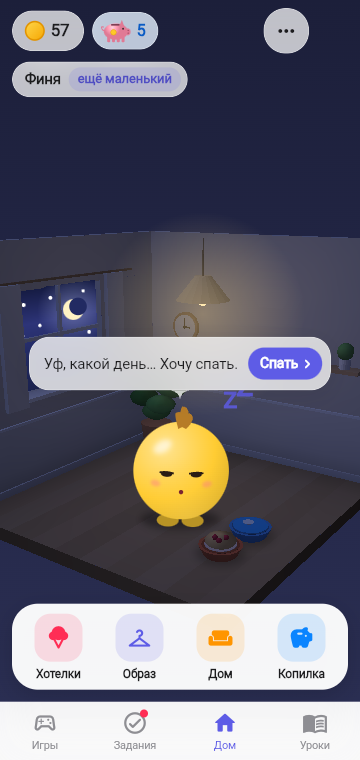
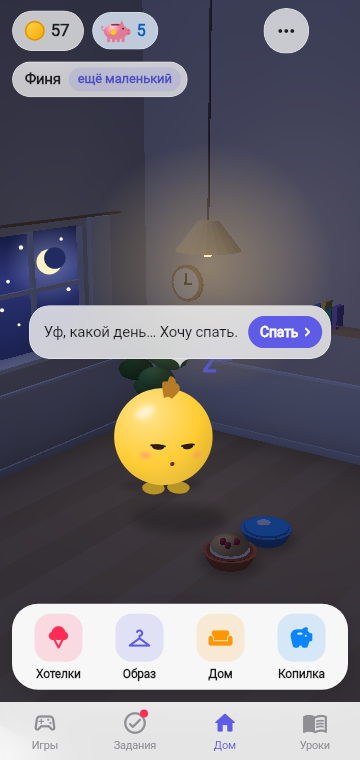
F-048/F-049: full-screen 3D room on Home, GitHub Actions release APK
- F-048: RoomBuilder fullBleed mode - floor and walls run past the
  frame (far 3.8 m, walls 6 m), no diorama cuts, closer camera; Home
  uses it, the Дом catalog stays a diorama
- F-049: .github/workflows/android-apk.yml - analyze, test, release APK
  artifact on push/PR, GitHub Release on v* tags; optional release
  signing from repo secrets via android/key.properties (debug key
  otherwise)
- SA F-048, F-049; room3d test; home screenshots refreshed

diff --git a/client/lib/ui/room3d/room_builder.dart b/client/lib/ui/room3d/room_builder.dart
@@ -21,6 +21,10 @@ abstract final class RoomBuilder {
   /// Где стоит Финик.
   static const heroSpot = Vec3(0.35, 0, 0.5);
 
+  /// Комната во весь экран (F-048): стены и пол уходят за края кадра.
+  /// [far] — докуда тянутся пол, задняя и левая стены к камере и вправо; [top] — высота стен.
+  static const far = 3.8, top = 6.0;
+
   static const _lampPos = Vec3(-1.2, 0, 0.95);
   static const _pendantPos = Vec3(0.2, 2.75, -0.2);
 
@@ -30,13 +34,14 @@ abstract final class RoomBuilder {
     bool night = false,
     Bowls bowls = const Bowls(),
     DayTime time = DayTime.day,
+    bool fullBleed = false,
   }) {
     if (night) time = DayTime.night;
     night = time == DayTime.night;
     final lampsOn = night || time == DayTime.evening; // вечером лампы уже горят
     final play = room == 2;
     final meshes = <Mesh>[];
-    _shell(meshes, play: play, time: time);
+    _shell(meshes, play: play, time: time, fullBleed: fullBleed);
     if (play) {
       _playroom(meshes);
     } else {
@@ -66,7 +71,7 @@ abstract final class RoomBuilder {
       }
     }
     _bowls(meshes, bowls);
-    _pendant(meshes, night: lampsOn);
+    _pendant(meshes, night: lampsOn, ceiling: fullBleed ? top : h);
     return meshes;
   }
 
@@ -141,7 +146,9 @@ abstract final class RoomBuilder {
 
   // ---------- Коробка комнаты ----------
 
-  static void _shell(List<Mesh> m, {required bool play, required DayTime time}) {
+  static void _shell(List<Mesh> m, {required bool play, required DayTime time, bool fullBleed = false}) {
+    // Во весь экран: пол и стены длиннее и выше, срезов диорамы нет (F-048).
+    final x1 = fullBleed ? far : 2.0, z1 = fullBleed ? far : 2.0, wh = fullBleed ? top : h;
     final wallC = play ? const Color(0xFFCFE3D7) : const Color(0xFFE9DED2);
     final panelC = play ? const Color(0xFFE6F0EA) : const Color(0xFFF3ECE3);
     final capC = const Color(0xFFFBF8F3);
@@ -149,36 +156,46 @@ abstract final class RoomBuilder {
     const panelTop = 0.95;
 
     // Пол из досок (полосы вдоль z) + основание-срез диорамы.
-    const n = 10;
+    const plank = 0.4;
     const tones = [0.0, 0.05, -0.04, 0.02, -0.06, 0.04, -0.02, 0.06, -0.03, 0.01];
+    final n = ((x1 + 2) / plank).round();
+    final nz = ((z1 + 2) / 0.5).round();
     for (var i = 0; i < n; i++) {
-      final x0 = -2 + 4 * i / n;
-      final t = tones[i];
+      final x0 = -2 + plank * i;
+      final t = tones[i % tones.length];
       final c = t >= 0 ? Color.lerp(woodA, const Color(0xFFFFFFFF), t)! : Color.lerp(woodA, const Color(0xFF000000), -t)!;
-      m.add(Mesh.grid(Vec3(x0, 0, -2), const Vec3(0, 0, 4), const Vec3(4 / n, 0, 0), c, nu: 8, nv: 1));
+      m.add(Mesh.grid(Vec3(x0, 0, -2), Vec3(0, 0, z1 + 2), const Vec3(plank, 0, 0), c, nu: nz, nv: 1));
     }
-    const slabC = Color(0xFF9C7A57);
-    m.add(Mesh.grid(const Vec3(-2 - wall, -slab, 2), const Vec3(4 + wall, 0, 0), const Vec3(0, slab, 0), slabC, nu: 1, nv: 1));
-    m.add(Mesh.grid(const Vec3(2, -slab, 2), const Vec3(0, 0, -4 - wall), const Vec3(0, slab, 0), Color.lerp(slabC, const Color(0xFF000000), 0.15)!, nu: 1, nv: 1));
+    if (!fullBleed) {
+      const slabC = Color(0xFF9C7A57);
+      m.add(Mesh.grid(const Vec3(-2 - wall, -slab, 2), const Vec3(4 + wall, 0, 0), const Vec3(0, slab, 0), slabC, nu: 1, nv: 1));
+      m.add(Mesh.grid(const Vec3(2, -slab, 2), const Vec3(0, 0, -4 - wall), const Vec3(0, slab, 0), Color.lerp(slabC, const Color(0xFF000000), 0.15)!, nu: 1, nv: 1));
+    }
 
     // Задняя стена: панели снизу, стена сверху, срезы сверху и справа.
-    m.add(Mesh.grid(const Vec3(-2, 0, -2), const Vec3(4, 0, 0), const Vec3(0, panelTop, 0), panelC, nu: 10, nv: 3));
-    m.add(Mesh.grid(const Vec3(-2, panelTop, -2), const Vec3(4, 0, 0), const Vec3(0, h - panelTop, 0), wallC, nu: 10, nv: 6));
-    m.add(Mesh.grid(const Vec3(-2 - wall, h, -2 - wall), const Vec3(0, 0, wall), const Vec3(4 + wall, 0, 0), capC, nu: 1, nv: 1));
-    m.add(Mesh.grid(const Vec3(2, -slab, -2), const Vec3(0, 0, -wall), const Vec3(0, h + slab, 0), capC, nu: 1, nv: 1));
+    final nx = ((x1 + 2) / 0.4).round();
+    m.add(Mesh.grid(const Vec3(-2, 0, -2), Vec3(x1 + 2, 0, 0), const Vec3(0, panelTop, 0), panelC, nu: nx, nv: 3));
+    m.add(Mesh.grid(const Vec3(-2, panelTop, -2), Vec3(x1 + 2, 0, 0), Vec3(0, wh - panelTop, 0), wallC, nu: nx, nv: fullBleed ? 10 : 6));
+    if (!fullBleed) {
+      m.add(Mesh.grid(const Vec3(-2 - wall, h, -2 - wall), const Vec3(0, 0, wall), const Vec3(4 + wall, 0, 0), capC, nu: 1, nv: 1));
+      m.add(Mesh.grid(const Vec3(2, -slab, -2), const Vec3(0, 0, -wall), const Vec3(0, h + slab, 0), capC, nu: 1, nv: 1));
+    }
 
     // Левая стена с проёмом окна: z ∈ [−0.6, 0.8], y ∈ [1.0, 2.1].
     // Окно высокое: небо видно над облачком реплики героя (F-028).
     const wz0 = -0.75, wz1 = 0.85, wy0 = 1.35, wy1 = 2.75;
     void left(double z0, double z1, double y0, double y1, Color c, {int nu = 6, int nv = 3}) =>
         m.add(Mesh.grid(Vec3(-2, y0, z1), Vec3(0, 0, -(z1 - z0)), Vec3(0, y1 - y0, 0), c, nu: nu, nv: nv));
-    left(-2, 2, 0, panelTop, panelC, nu: 10);
-    left(-2, 2, panelTop, wy0, wallC, nu: 10, nv: 1);
-    left(-2, 2, wy1, h, wallC, nu: 10, nv: 3);
+    final nzw = ((z1 + 2) / 0.4).round();
+    left(-2, z1, 0, panelTop, panelC, nu: nzw);
+    left(-2, z1, panelTop, wy0, wallC, nu: nzw, nv: 1);
+    left(-2, z1, wy1, wh, wallC, nu: nzw, nv: fullBleed ? 8 : 3);
     left(-2, wz0, wy0, wy1, wallC, nu: 4, nv: 3);
-    left(wz1, 2, wy0, wy1, wallC, nu: 4, nv: 3);
-    m.add(Mesh.grid(const Vec3(-2 - wall, h, 2), const Vec3(wall, 0, 0), const Vec3(0, 0, -4 - wall), capC, nu: 1, nv: 1));
-    m.add(Mesh.grid(const Vec3(-2 - wall, -slab, 2), const Vec3(wall, 0, 0), const Vec3(0, h + slab, 0), capC, nu: 1, nv: 1));
+    left(wz1, z1, wy0, wy1, wallC, nu: fullBleed ? 8 : 4, nv: 3);
+    if (!fullBleed) {
+      m.add(Mesh.grid(const Vec3(-2 - wall, h, 2), const Vec3(wall, 0, 0), const Vec3(0, 0, -4 - wall), capC, nu: 1, nv: 1));
+      m.add(Mesh.grid(const Vec3(-2 - wall, -slab, 2), const Vec3(wall, 0, 0), const Vec3(0, h + slab, 0), capC, nu: 1, nv: 1));
+    }
     // Откосы проёма.
     const reveal = Color(0xFFF6F1EA);
     m.add(Mesh.grid(const Vec3(-2 - wall, wy0, wz1), const Vec3(wall, 0, 0), const Vec3(0, 0, -(wz1 - wz0)), reveal, nu: 1, nv: 1));
@@ -206,13 +223,14 @@ abstract final class RoomBuilder {
     const skirt = Color(0xFFFFFDFA);
     // Плинтус и молдинг — короткими кусками: у длинной планки центр ближе к камере,
     // и она «прорезала» предметы в углу (монстеру). Куски сортируются каждый на своём месте.
-    const pieces = 8;
+    final pieces = fullBleed ? 12 : 8;
+    final len = (x1 + 2) / pieces, lenZ = (z1 + 2) / pieces;
     for (var i = 0; i < pieces; i++) {
-      final c = -2 + 4 * (i + 0.5) / pieces;
-      m.add(Mesh.box(const Vec3(4 / pieces, 0.1, 0.03), skirt, castShadow: false).translated(Vec3(c, 0, -1.985)));
-      m.add(Mesh.box(const Vec3(0.03, 0.1, 4 / pieces), skirt, castShadow: false).translated(Vec3(-1.985, 0, c)));
-      m.add(Mesh.box(const Vec3(4 / pieces, 0.035, 0.035), skirt, castShadow: false).translated(Vec3(c, panelTop, -1.98)));
-      m.add(Mesh.box(const Vec3(0.035, 0.035, 4 / pieces), skirt, castShadow: false).translated(Vec3(-1.98, panelTop, c)));
+      final c = -2 + len * (i + 0.5), cz = -2 + lenZ * (i + 0.5);
+      m.add(Mesh.box(Vec3(len, 0.1, 0.03), skirt, castShadow: false).translated(Vec3(c, 0, -1.985)));
+      m.add(Mesh.box(Vec3(0.03, 0.1, lenZ), skirt, castShadow: false).translated(Vec3(-1.985, 0, cz)));
+      m.add(Mesh.box(Vec3(len, 0.035, 0.035), skirt, castShadow: false).translated(Vec3(c, panelTop, -1.98)));
+      m.add(Mesh.box(Vec3(0.035, 0.035, lenZ), skirt, castShadow: false).translated(Vec3(-1.98, panelTop, cz)));
     }
 
     // Шторы.
@@ -264,9 +282,9 @@ abstract final class RoomBuilder {
     m.add(Mesh.sphere(0.12 * s * 2, const Color(0xFF6BA35A), lat: 6, lon: 10, castShadow: false).translated(at + Vec3(0, 0.12 * s * 2, 0)));
   }
 
-  static void _pendant(List<Mesh> m, {required bool night}) {
+  static void _pendant(List<Mesh> m, {required bool night, double ceiling = h}) {
     final p = _pendantPos;
-    m.add(Mesh.box(Vec3(0.015, h - p.y - 0.2, 0.015), const Color(0xFF6B5A4A), castShadow: false).translated(p + const Vec3(0, 0.25, 0)));
+    m.add(Mesh.box(Vec3(0.015, ceiling - p.y - 0.2, 0.015), const Color(0xFF6B5A4A), castShadow: false).translated(p + const Vec3(0, 0.25, 0)));
     m.add(Mesh.cylinder(0.34, 0.3, const Color(0xFFE9C58E), topR: 0.1, castShadow: false).translated(p - const Vec3(0, 0.05, 0)));
     m.add(Mesh.sphere(0.07, night ? const Color(0xFFFFF2C6) : const Color(0xFFFFF6E0), lat: 6, lon: 8, castShadow: false, emissive: true).translated(p - const Vec3(0, 0.12, 0)));
   }

diff --git a/client/lib/ui/room/room_scene.dart b/client/lib/ui/room/room_scene.dart
@@ -27,7 +27,11 @@ class RoomScene extends StatefulWidget {
     this.time = DayTime.day,
     this.initialAzimuth,
     this.orbit = const [],
+    this.fullBleed = false,
   });
+
+  /// Комната во весь экран: стены и пол уходят за края кадра (F-048).
+  final bool fullBleed;
 
   final Inventory inventory;
 
@@ -104,10 +108,10 @@ class _RoomSceneState extends State<RoomScene> with SingleTickerProviderStateMix
 
   void _ensureScene() {
     final inv = widget.inventory;
-    final key = '${inv.owned.toList()..sort()}|${inv.furniture}|${widget.room}|${widget._time}|${widget.bowls.key}';
+    final key = '${inv.owned.toList()..sort()}|${inv.furniture}|${widget.room}|${widget._time}|${widget.bowls.key}|${widget.fullBleed}';
     if (key == _key) return;
     _key = key;
-    _meshes = RoomBuilder.build(inventory: inv, room: widget.room, time: widget._time, bowls: widget.bowls);
+    _meshes = RoomBuilder.build(inventory: inv, room: widget.room, time: widget._time, bowls: widget.bowls, fullBleed: widget.fullBleed);
     _lighting = RoomBuilder.lighting(inventory: inv, room: widget.room, time: widget._time);
   }
 
@@ -203,7 +207,8 @@ class _RoomSceneState extends State<RoomScene> with SingleTickerProviderStateMix
       minX = min(minX, p.dx);
       maxX = max(maxX, p.dx);
     }
-    final zoom = size.width * 1.32 / max(1, maxX - minX);
+    // Во весь экран комната крупнее: меньше пустой стены над героем (F-048).
+    final zoom = size.width * (widget.fullBleed ? 1.62 : 1.32) / max(1, maxX - minX);
     final hero = cam.project(cam.toView(RoomBuilder.heroSpot), size, zoom: zoom)!;
     final target = Offset(size.width / 2, size.height * widget.feetY);
     return (zoom, target - hero);

diff --git a/client/test/ui/room3d_test.dart b/client/test/ui/room3d_test.dart
@@ -92,6 +92,17 @@ void main() {
       }
     });
 
+    test('full-bleed room extends floor and walls beyond the frame (F-048)', () {
+      final diorama = RoomBuilder.build(inventory: Inventory.empty);
+      final full = RoomBuilder.build(inventory: Inventory.empty, fullBleed: true);
+      expect(full.length, greaterThan(diorama.length));
+      double maxOf(List<Mesh> ms, double Function(Vec3) f) => ms.expand((m) => m.vertices).map(f).reduce((a, b) => a > b ? a : b);
+      expect(maxOf(full, (v) => v.y), greaterThanOrEqualTo(RoomBuilder.top - 0.01));
+      expect(maxOf(full, (v) => v.x), greaterThanOrEqualTo(RoomBuilder.far - 0.01));
+      expect(maxOf(full, (v) => v.z), greaterThanOrEqualTo(RoomBuilder.far - 0.01));
+      expect(maxOf(diorama, (v) => v.y), lessThan(RoomBuilder.top));
+    });
+
     test('full bowls add food and water to the room (F-027)', () {
       int bowls(Bowls b, {int room = 1}) => RoomBuilder.build(inventory: Inventory.empty, room: room, bowls: b).length;
       final empty = bowls(const Bowls(food: false, water: false));

diff --git a/client/lib/ui/tabs/home_tab.dart b/client/lib/ui/tabs/home_tab.dart
@@ -90,6 +90,7 @@ class _HomeTabState extends State<HomeTab> {
                 room: room,
                 feetY: feetY,
                 heroScale: 0.78,
+                fullBleed: true, // комната во весь экран (F-048)
                 hero: MascotView(
                   look: MascotLook.fromGame(game).withEmotion(
                     game.greeting ? PetEmotion.excited : (_moodLine == null ? wish.emotion : null),

diff --git a/docs/work/ui/F-048_FULL_SCREEN_ROOM_SA_SPEC.md b/docs/work/ui/F-048_FULL_SCREEN_ROOM_SA_SPEC.md
@@ -1,0 +1,44 @@
+# Комната во весь экран — системная спецификация (SA)
+
+| Поле | Значение |
+|------|----------|
+| **ID** | F-048 |
+| **Назначение** | На Доме 3D-комната занимает весь экран: стены и пол уходят за края кадра, пустоты вокруг «диорамы» нет |
+| **Репозиторий** | `Pet_Finni_hackathon` |
+| **Источник** | Запрос Егора 2026-09-24 после теста на эмуляторе: «комната полностью на весь экран, а не кусок маленький; много пустого пространства; но чтобы комната оставалась 3D» |
+| **Статус** | Реализовано 2026-09-24 |
+| **Связанные артефакты** | F-019 (3D-комната), F-028 (время суток), F-042 (док) |
+
+---
+
+## 1. Решение
+
+Было: комната-диорама 4 × 4 м со срезами стен и пола, вписанная по ширине; сверху и снизу — пустой фон. Стало (режим `fullBleed`):
+
+- пол, задняя и левая стены продлены к камере и вправо до `far = 3,8 м`, стены подняты до `top = 6 м` — их края всегда за кадром;
+- срезы диорамы (торцы стен и основание пола) не рисуются;
+- провод люстры тянется до верха стены;
+- камера ближе: масштаб `1,62` ширины вместо `1,32` — герой и вещи крупнее, пустой стены меньше;
+- комната по-прежнему 3D: крутится пальцем, свет и тени по времени суток.
+
+Экран «Дом» (покупка вещей) остаётся диорамой — там важно видеть комнату целиком.
+
+## 3. Бизнес-требования
+
+| ID | Требование | Приоритет |
+|----|------------|-----------|
+| BR-01 | На Доме нет пустого фона вокруг комнаты на телефоне 360 × 760 dp | Must |
+| BR-02 | Комната остаётся 3D и поворачивается пальцем | Must |
+| BR-03 | Вещи, миски, окно, часы, фото из зоопарка видны; облачко реплики не закрывает окно и фото | Must |
+| BR-04 | Режим включается параметром `RoomScene(fullBleed: true)`, по умолчанию — диорама | Must |
+
+## 8. API
+
+```dart
+RoomBuilder.build(..., bool fullBleed = false)   // far = 3.8, top = 6.0
+RoomScene(..., bool fullBleed = false)            // Home: true
+```
+
+## 9. Тестирование
+
+`room3d_test`: `fullBleed` строит больше мешей пола и стен, без срезов; прежние тесты диорамы не меняются. Скриншоты Дома днём и ночью — `docs/business/img/home_*.png`.

diff --git a/docs/work/ops/F-049_CI_RELEASE_APK_SA_SPEC.md b/docs/work/ops/F-049_CI_RELEASE_APK_SA_SPEC.md
@@ -1,0 +1,35 @@
+# CI/CD: сборка релизного APK в GitHub Actions — системная спецификация (SA)
+
+| Поле | Значение |
+|------|----------|
+| **ID** | F-049 |
+| **Назначение** | Каждый пуш в `main` / `Egor_DevStand` и каждый PR проверяется (analyze + test) и собирает release APK; тег `v*` публикует APK в GitHub Releases |
+| **Репозиторий** | `Pet_Finni_hackathon` |
+| **Источник** | Запрос Егора 2026-09-24: «настроить CI/CD в GitHub, чтобы сборка релизной APK была там» |
+| **Статус** | Реализовано 2026-09-24 |
+
+---
+
+## 1. Workflow `.github/workflows/android-apk.yml`
+
+| Шаг | Что делает |
+|-----|------------|
+| Триггеры | `push` в `main`, `Egor_DevStand`; `pull_request` в `main`; теги `v*`; ручной запуск (`workflow_dispatch`) |
+| Окружение | `ubuntu-latest`, Java 17 (Temurin), Flutter 3.47.5 stable с кешем |
+| Проверки | `flutter pub get` → `flutter analyze` → `flutter test` |
+| Сборка | `flutter build apk --release --build-number=<номер запуска>` |
+| Артефакт | `finni-<версия>-<sha>.apk` в артефактах запуска (хранится 30 дней) |
+| Релиз | На тег `v*` — GitHub Release с APK |
+
+## 2. Подпись
+
+По умолчанию — debug-ключ (как локально): APK ставится вручную для демо. Если в секретах репозитория есть `ANDROID_KEYSTORE_BASE64`, `ANDROID_KEYSTORE_PASSWORD`, `ANDROID_KEY_ALIAS`, `ANDROID_KEY_PASSWORD`, workflow создаёт `android/key.properties`, и Gradle подписывает релизным ключом. Ключ и пароли создаёт и добавляет в секреты владелец репозитория; в код они не попадают (`key.properties`, `*.jks` — в `.gitignore`).
+
+## 3. Как пользоваться
+
+- Скачать APK: GitHub → Actions → запуск → Artifacts → `finni-apk`.
+- Выпустить релиз: `git tag v1.0.0 && git push origin v1.0.0` → GitHub → Releases.
+
+## 9. Проверка
+
+Первый запуск после пуша — зелёный: analyze без замечаний, 161+ тест, APK в артефактах.

diff --git a/docs/work/README.md b/docs/work/README.md
@@ -64,6 +64,8 @@
 | F-045 | Вёрстка «Одежды» | [ui/F-045](ui/F-045_CLOTHES_LAYOUT_SA_SPEC.md) | `ui/screens/clothes_screen.dart` | `app_flow_test` |
 | F-046 | Перетаскивание в уроках | [ui/F-046](ui/F-046_DRAG_SORT_SA_SPEC.md) | `ui/lesson/lesson_steps.dart` | `lesson_test` |
 | F-047 | Фото из зоопарка на виду | [ui/F-047](ui/F-047_ZOO_PHOTO_PLACE_SA_SPEC.md) | `ui/room3d/room_builder.dart` | `room3d_test` |
+| F-048 | Комната во весь экран | [ui/F-048](ui/F-048_FULL_SCREEN_ROOM_SA_SPEC.md) | `ui/room3d/room_builder.dart`, `ui/room/room_scene.dart`, `ui/tabs/home_tab.dart` | `room3d_test` |
+| F-049 | CI: релизный APK в GitHub Actions | [ops/F-049](ops/F-049_CI_RELEASE_APK_SA_SPEC.md) | `.github/workflows/android-apk.yml`, `android/app/build.gradle.kts` | запуск Actions |
 
 **Пайплайн:** brainstorming → design spec + SA → writing-plans (одна подсистема) → TDD → проверка.  
 См. `.cursor/rules/delivery-workflow.mdc` и `superpowers-workflow.mdc`.
